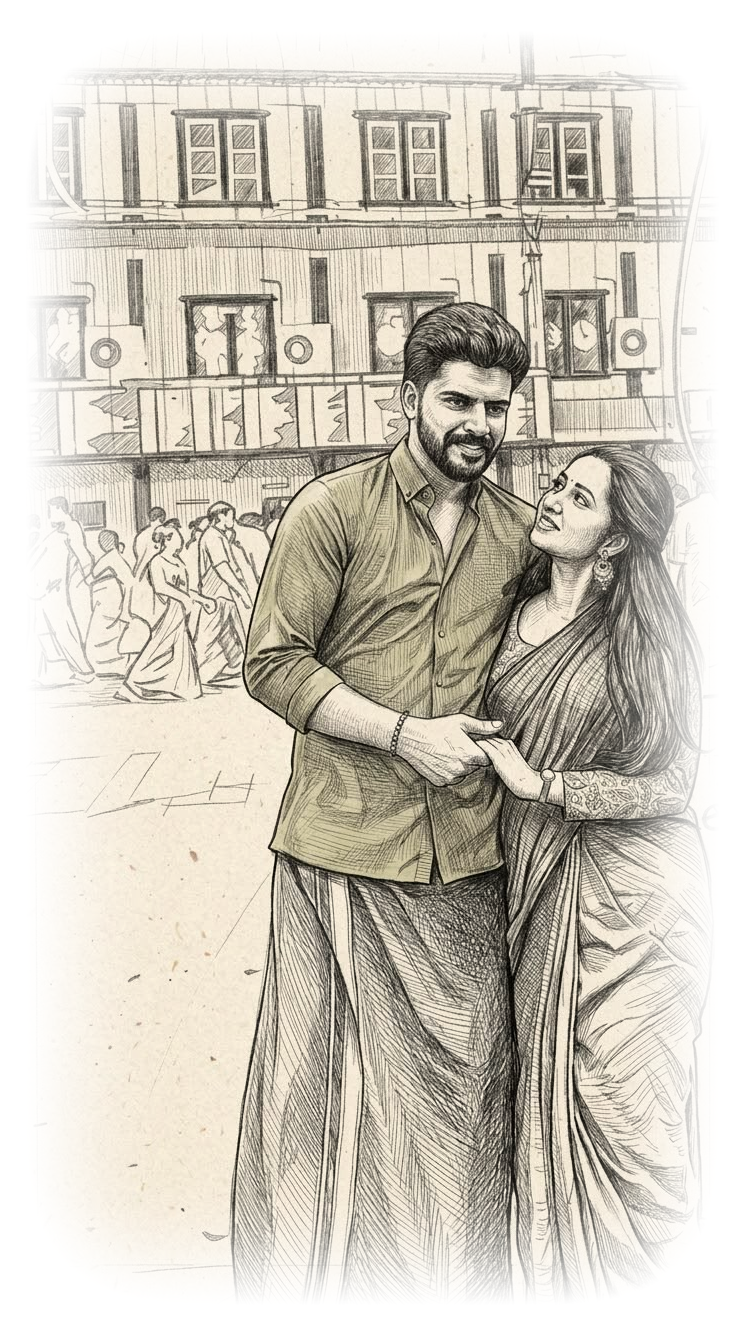
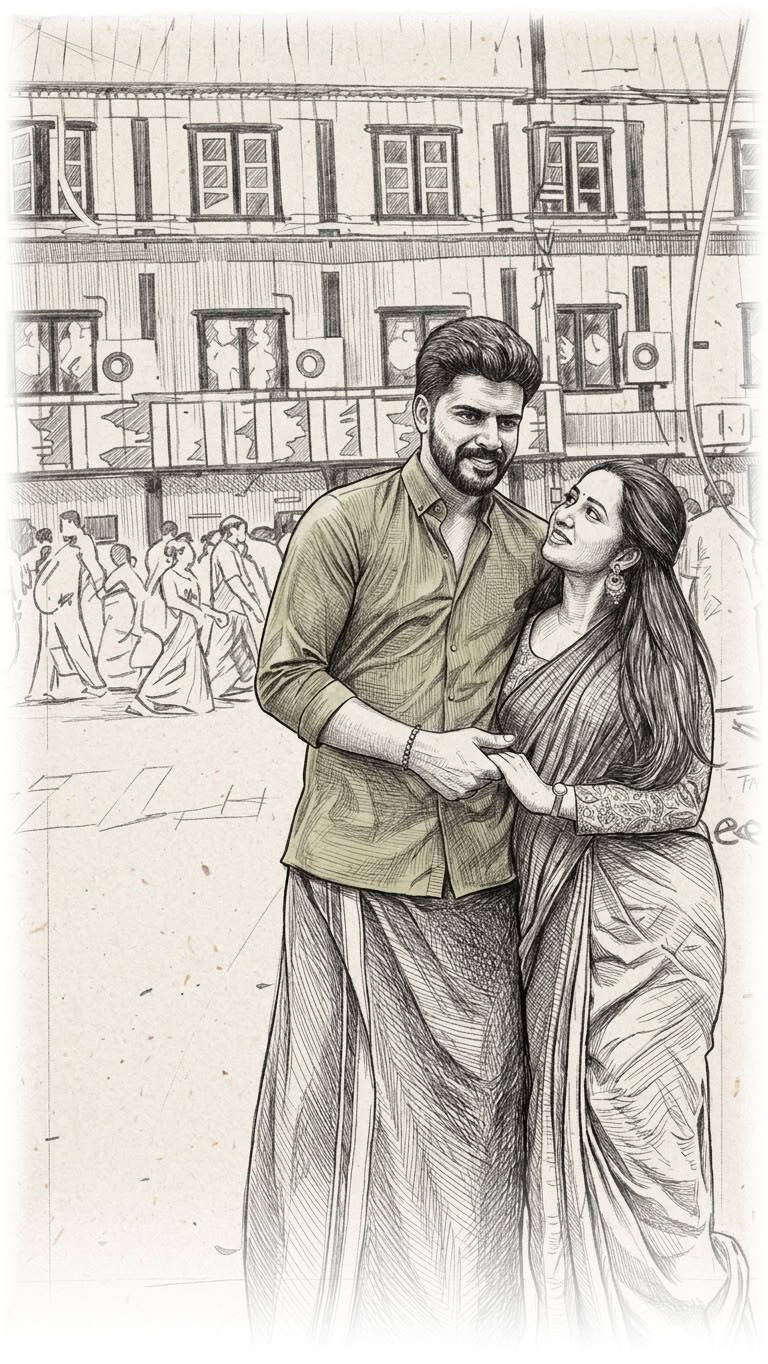
fix(theme): apply deep bottom feathering, correct aspect ratio, and linear fade overlay

diff --git a/components/invite/aswgee.tsx b/components/invite/aswgee.tsx
@@ -818,19 +818,21 @@ export function AswgeeTheme({ invite }: { invite?: InviteData }) {
 
                   {/* 2. Wedding Portrait - Clean, Full-Width & Seamlessly Feathered (Zero Overlap) */}
                   <div
-                    className="w-full max-w-[420px] sm:max-w-[460px] aspect-[744/1200] relative mx-auto my-2 select-none flex items-center justify-center overflow-hidden"
+                    className="w-full max-w-[420px] sm:max-w-[460px] aspect-[768/1364] relative mx-auto my-2 select-none flex items-center justify-center overflow-hidden"
                     style={{
                       maskImage:
-                        "radial-gradient(ellipse 92% 90% at 50% 50%, rgba(0,0,0,1) 55%, rgba(0,0,0,0) 100%)",
+                        "linear-gradient(to bottom, rgba(0,0,0,1) 0%, rgba(0,0,0,1) 68%, rgba(0,0,0,0) 98%)",
                       WebkitMaskImage:
-                        "radial-gradient(ellipse 92% 90% at 50% 50%, rgba(0,0,0,1) 55%, rgba(0,0,0,0) 100%)",
+                        "linear-gradient(to bottom, rgba(0,0,0,1) 0%, rgba(0,0,0,1) 68%, rgba(0,0,0,0) 98%)",
                     }}
                   >
                     <img
                       src="/ashwageetham/aswanth_geethanjali_sketch_feathered.png"
                       alt="Wedding Portrait of Aswanth and Geethanjali"
-                      className="w-full h-full object-cover object-top filter contrast-[1.03] brightness-[1.01]"
+                      className="w-full h-full object-contain object-top filter contrast-[1.03] brightness-[1.01]"
                     />
+                    {/* Seamless Bottom Feathering Gradient Overlay */}
+                    <div className="absolute inset-x-0 bottom-0 h-32 sm:h-40 bg-gradient-to-t from-[#FFFDF9] via-[#FFFDF9]/85 to-transparent pointer-events-none" />
                   </div>
                 </div>
 
